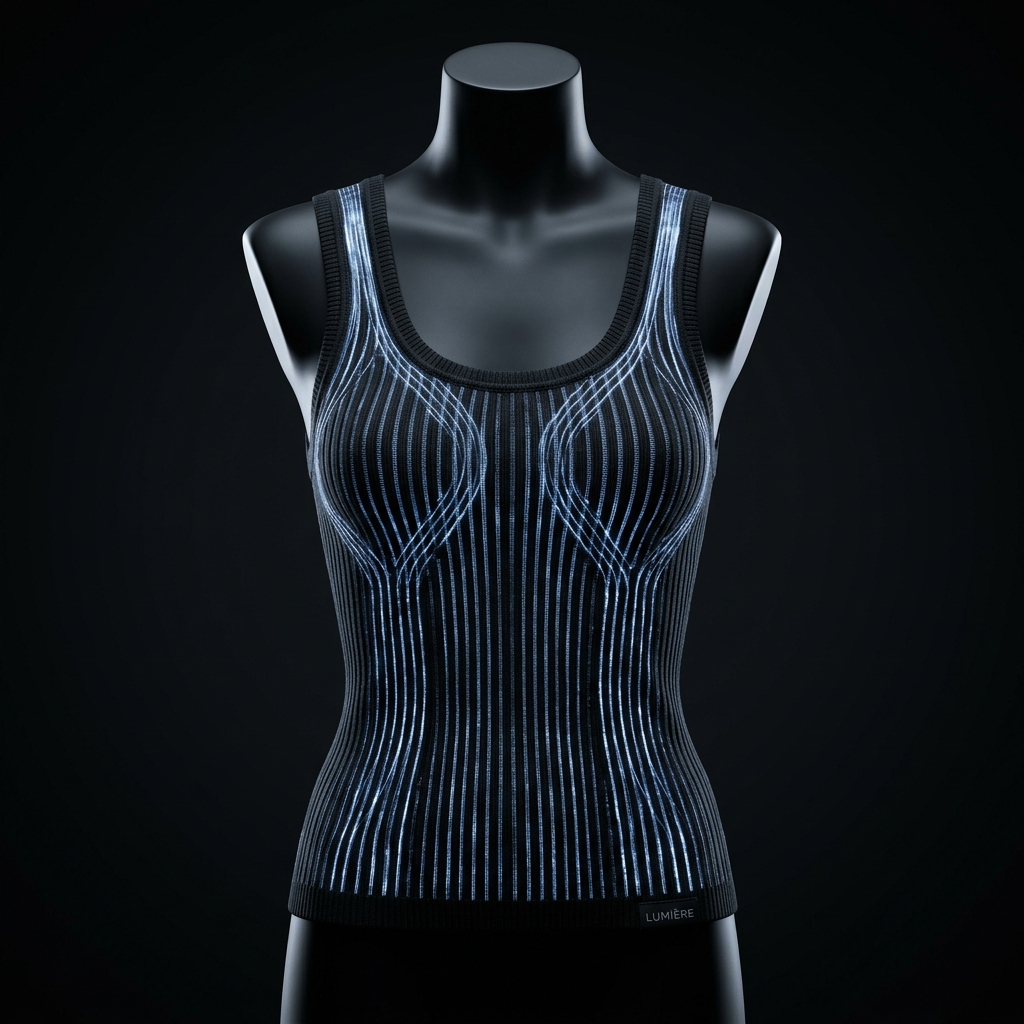
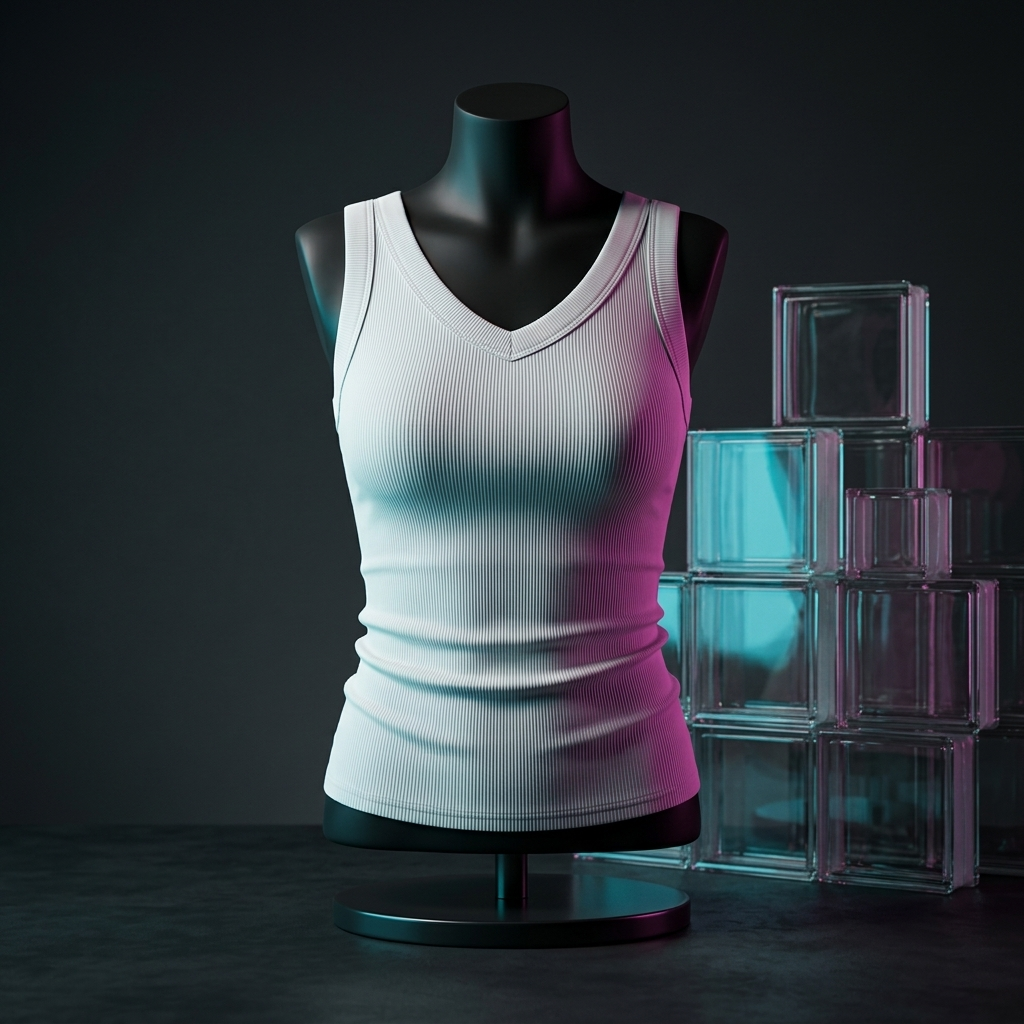
chore: update exact match product photo for Tank Top B0FTSVKP9B

diff --git a/build_shopify_theme.js b/build_shopify_theme.js
@@ -335,7 +335,7 @@ if (PRODUCTS.length === 0) {
       price: 16.20,
       rating: 4.6,
       reviewsCount: 2032,
-      image: "https://files.catbox.moe/wmxx5u.jpg",
+      image: "https://files.catbox.moe/u8xrnb.jpg",
       tag: "Summer Ribbed",
       description: "Sleek tank top woven with glowing liquid-glass optical micro-threads. Fits like a second skin with stretch-comfort cooling fiber matrix.",
       specs: {